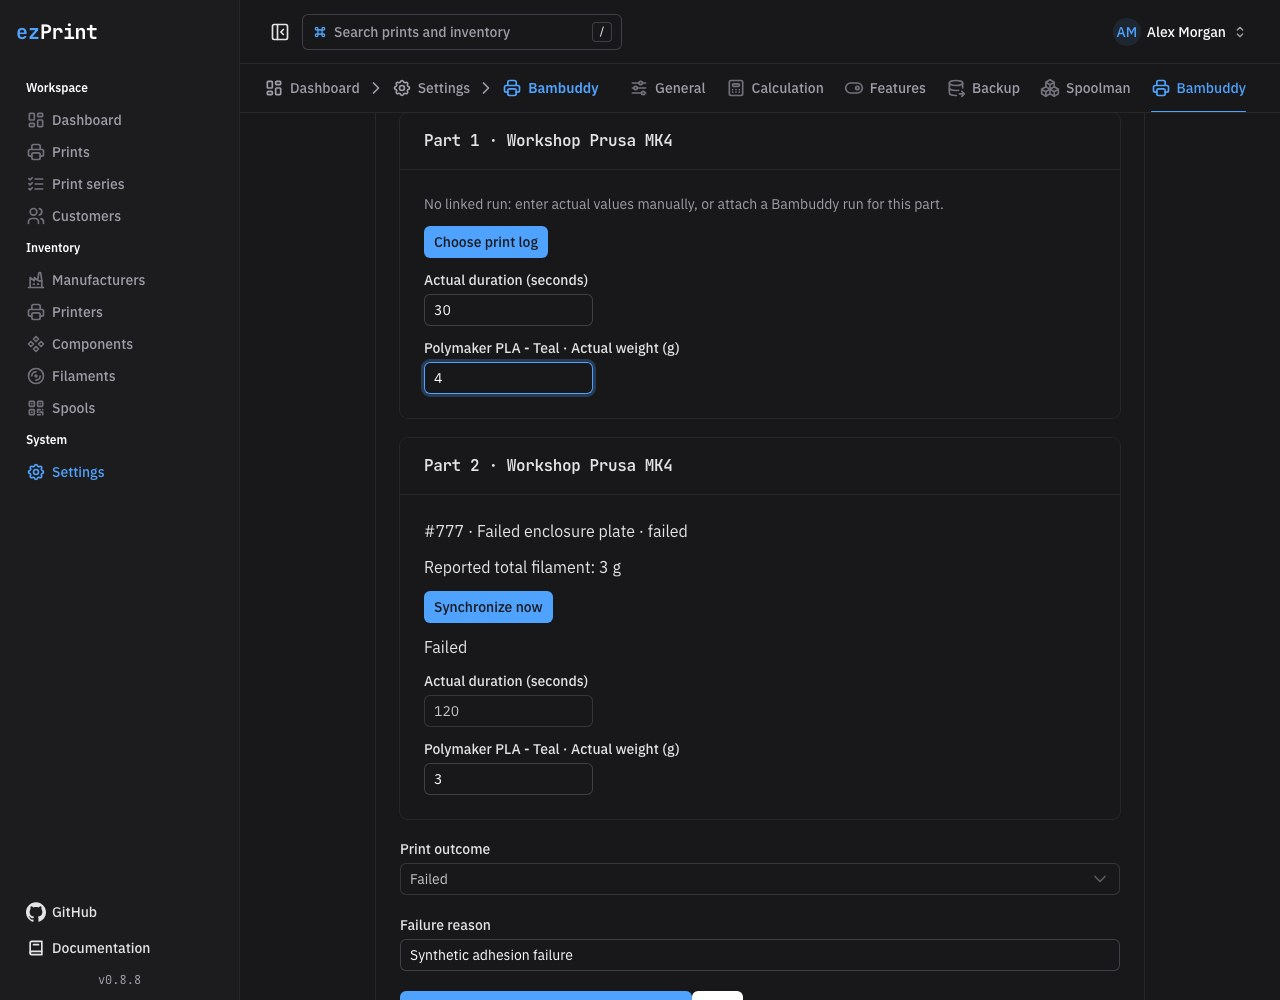
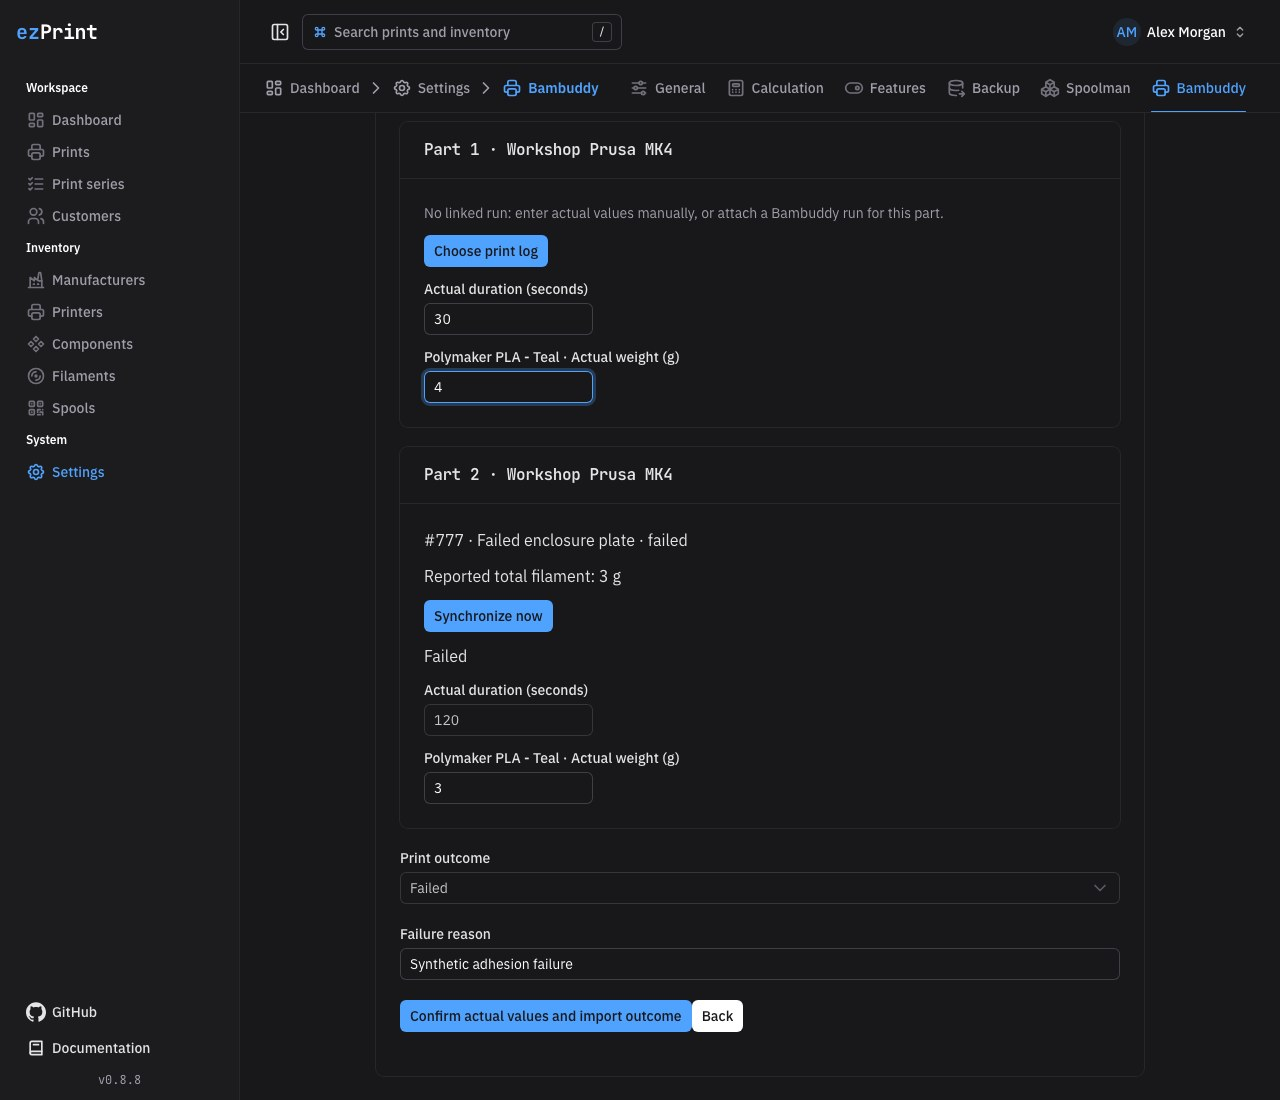
docs: frame complete Bambuddy import controls

diff --git a/tests/docs-screenshots/application.spec.ts b/tests/docs-screenshots/application.spec.ts
@@ -559,6 +559,9 @@ test('regenerates every application screenshot used by the documentation', async
   await expect(
     page.getByRole('button', { name: 'Confirm actual values and import outcome', exact: true }),
   ).toBeVisible();
+  await page
+    .getByRole('button', { name: 'Confirm actual values and import outcome', exact: true })
+    .scrollIntoViewIfNeeded();
   await capture(page, 'bambubuddy-preview.jpg');
   await page.getByRole('button', { name: 'Confirm actual values and import outcome', exact: true }).click();
   await expect(page.getByText('Applied', { exact: true })).toBeVisible();
@@ -602,7 +605,7 @@ test('regenerates every application screenshot used by the documentation', async
   await manualPart.getByLabel('Polymaker PLA - Teal · Actual weight (g)', { exact: true }).fill('4');
   await expect(linkedPart.getByLabel('Actual duration (seconds)', { exact: true })).toBeDisabled();
   await expect(page.getByLabel('Print outcome', { exact: true })).toBeDisabled();
-  await page.setViewportSize({ width: 1280, height: 1000 });
+  await page.setViewportSize({ width: 1280, height: 1100 });
   await manualPart.evaluate((element) => element.scrollIntoView({ block: 'start' }));
   await capture(page, 'bambubuddy-parts.jpg');
   const importedParts = page.waitForResponse(
